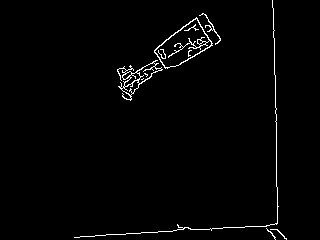
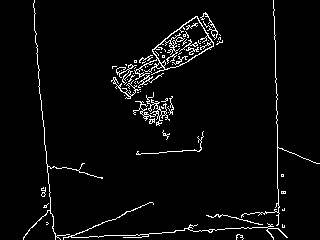
add ex_roi_get line

diff --git a/open_cv/img/ex_roi_get_line.py b/open_cv/img/ex_roi_get_line.py
@@ -1,0 +1,117 @@
+# coding: utf-8
+
+import wx
+import cv
+import cv2
+import numpy as np
+import cStringIO
+
+path = "/home/mm/code_dept/python/resource/img/"
+
+
+class OriginImgPanel(wx.Panel):
+    def __init__(self, parent, img_path):
+        self.background = wx.Image(img_path, wx.BITMAP_TYPE_ANY).ConvertToBitmap()
+        wx.Panel.__init__(self, parent=parent, size=(
+            self.background.GetWidth(), self.background.GetHeight()))
+        # self.SetBackgroundStyle(wx.BG_STYLE_CUSTOM)
+        self.Bind(wx.EVT_ERASE_BACKGROUND, self.OnEraseBackground)
+
+    def OnEraseBackground(self, evt):
+        """
+        Add a picture to the background
+        """
+        # yanked from ColourDB.py
+        dc = evt.GetDC()
+
+        if not dc:
+            dc = wx.ClientDC(self)
+            rect = self.GetUpdateRegion().GetBox()
+            # print rect
+            dc.SetClippingRect(rect)
+        dc.Clear()
+
+        dc.DrawBitmap(self.background, 0, 0)
+
+
+class EdgePanel(wx.Panel):
+    def __init__(self, parent, img_path):
+        wx.Panel.__init__(self, parent)
+        self.origin_img = cv2.imread(img_path)
+        height, width = self.origin_img.shape[:2]
+        self.SetSize((height, width))
+        self.rbg_img = cv2.cvtColor(self.origin_img, cv2.COLOR_BGR2RGB)
+        self.bmp = wx.BitmapFromBuffer(width, height, self.rbg_img)
+
+        self.edge_img = wx.StaticBitmap(self, size=(height, width))
+
+        self.edge_img.SetBitmap(self.bmp)
+        # self.Bind(wx.EVT_PAINT, self.OnPaint)
+        # self.Bind(wx.EVT_TIMER, self.NextFrame)
+
+        # self.Refresh()
+
+    def OnPaint(self, evt):
+        dc = wx.BufferedPaintDC(self)
+        print "paint", self.bmp
+        dc.DrawBitmap(self.bmp, 0, 0)
+
+    def NextFrame(self, event):
+        self.Refresh()
+
+    def detect(self, sp, sr):
+        image = cv2.pyrMeanShiftFiltering(self.origin_img, sp, sr)
+        gray_img = cv2.cvtColor(image, cv2.COLOR_BGR2GRAY)
+        detected_edges = cv2.Canny(gray_img, 20, 150, apertureSize=kernel_size)
+        dst = cv2.bitwise_and(self.origin_img, self.origin_img, mask=detected_edges)
+
+
+class CtrlPanel(wx.Panel):
+    def __init__(self, parent):
+        wx.Panel.__init__(self, parent)
+        vbox = wx.BoxSizer(wx.VERTICAL)
+
+        self.sld = wx.Slider(self, value=10, minValue=1, maxValue=100,
+                             style=wx.SL_HORIZONTAL | wx.SL_LABELS)
+
+        vbox.Add(self.sld, 1, flag=wx.EXPAND | wx.ALIGN_CENTER_HORIZONTAL | wx.TOP, border=20)
+        self.sld.Bind(wx.EVT_SLIDER, self.OnSliderScroll)
+        self.txt = wx.StaticText(self, label='Yiibai.com', style=wx.ALIGN_CENTER)
+        vbox.Add(self.txt, 1, wx.ALIGN_CENTRE_HORIZONTAL)
+
+        self.SetSizer(vbox)
+
+    def OnSliderScroll(self, e):
+        obj = e.GetEventObject()
+        val = obj.GetValue()
+        font = self.GetFont()
+        font.SetPointSize(self.sld.GetValue())
+        self.txt.SetFont(font)
+
+
+class Mywin(wx.Frame):
+
+    def __init__(self, parent, title):
+        super(Mywin, self).__init__(parent, title=title, size=(400, 300))
+        self.InitUI()
+
+    def InitUI(self):
+        v_lay = wx.BoxSizer(wx.VERTICAL)
+        img_path = path + 'ex_ocupity_lg.jpg'
+        ctrl_pnl = CtrlPanel(self)
+        img_pnl = OriginImgPanel(self, img_path)
+        edge_pnl = EdgePanel(self, img_path)
+
+        v_lay.Add(ctrl_pnl)
+        v_lay.Add(img_pnl)
+        v_lay.Add(edge_pnl)
+        self.SetSizer(v_lay)
+        self.SetSize((500, 800))
+        self.Centre()
+        self.Show(True)
+
+
+app = wx.App()
+frame = Mywin(None, "roi set")
+
+app.MainLoop()

diff --git a/open_cv/img/ex_roi.py b/open_cv/img/ex_roi.py
@@ -12,15 +12,16 @@ oc_lg2 = cv2.imread(path + 'ex_ocupity_lg2.jpg')
 
 
 kernel_size = 3
+image = cv2.pyrMeanShiftFiltering(oc_lg, 10, 10)
+# image = oc_lg
+ep_lg_gray_img = cv2.cvtColor(image, cv2.COLOR_BGR2GRAY)
 
-ep_lg_gray_img = cv2.cvtColor(oc_lg, cv2.COLOR_BGR2GRAY)
-ep_lg_gray_img = cv2.GaussianBlur(ep_lg_gray_img, (5, 5), 0)
 element = cv2.getStructuringElement(cv2.MORPH_RECT, (3, 3))
-ep_lg_erode = cv2.erode(ep_lg_gray_img, element)
+# ep_lg_erode = cv2.erode(ep_lg_gray_img, element)
 
 
 # detected_edges = cv2.GaussianBlur(ep_lg_erode, (3, 3), 0)
-detected_edges = cv2.Canny(ep_lg_erode, 30, 150, apertureSize=kernel_size)
+detected_edges = cv2.Canny(ep_lg_gray_img, 20, 150, apertureSize=kernel_size)
 
 cv2.imwrite(path + "ex_canny_edges.jpg", detected_edges)
 # dst = cv2.bitwise_and(img, img, mask=detected_edges)  # just add some colours to edges from original image.
@@ -32,23 +33,23 @@ ret, binary = cv2.threshold(dst_gray, 25, 255, cv2.THRESH_BINARY)
 contours, hierarchy = cv2.findContours(binary, 2, 1)
 
 
-for index, c in enumerate(contours):
-    if cv2.arcLength(c, True) > 600:
+# for index, c in enumerate(contours):
+#     if cv2.arcLength(c, True) > 600:
 
-        hull = cv2.convexHull(c, returnPoints=False)
-        defects = cv2.convexityDefects(c, hull)
-        for i in range(defects.shape[0]):
-            s, e, f, d = defects[i, 0]
-            start = tuple(c[s][0])
-            end = tuple(c[e][0])
-            far = tuple(c[f][0])
-            # cv2.line(dst, start, end, [0, 255, 0], 1)
-            # cv2.circle(dst, start, 5, [255, 0, 0], 2)
-            # cv2.circle(dst, far, 5, [255, 0, 0], 2)
-        cv2.drawContours(dst, contours, index, (0, 0, 255), 2)
+#         hull = cv2.convexHull(c, returnPoints=False)
+#         defects = cv2.convexityDefects(c, hull)
+#         for i in range(defects.shape[0]):
+#             s, e, f, d = defects[i, 0]
+#             start = tuple(c[s][0])
+#             end = tuple(c[e][0])
+#             far = tuple(c[f][0])
+#             # cv2.line(dst, start, end, [0, 255, 0], 1)
+#             # cv2.circle(dst, start, 5, [255, 0, 0], 2)
+#             # cv2.circle(dst, far, 5, [255, 0, 0], 2)
+#         cv2.drawContours(dst, contours, index, (0, 0, 255), 2)
 
-cv2.imwrite(path + "ex_canny_edges3.jpg", dst)
+# cv2.imwrite(path + "ex_canny_edges3.jpg", dst)
 
-ep_lg_gray_img = cv2.cvtColor(dst, cv2.COLOR_BGR2GRAY)
+# ep_lg_gray_img = cv2.cvtColor(dst, cv2.COLOR_BGR2GRAY)
 
-contours, hierarchy = cv2.findContours(binary, cv2.RETR_EXTERNAL, cv2.CHAIN_APPROX_SIMPLE)
+# contours, hierarchy = cv2.findContours(binary, cv2.RETR_EXTERNAL, cv2.CHAIN_APPROX_SIMPLE)

diff --git a/open_cv/img/test.py b/open_cv/img/test.py
@@ -1,0 +1,40 @@
+import wx
+
+
+class MyPanel(wx.Panel):
+    def __init__(self, parent):
+        wx.Panel.__init__(self, parent, -1)
+        self.Bind(wx.EVT_PAINT, self.OnPaint)
+        self.Bind(wx.EVT_LEFT_DCLICK, self.on_left_double_click)
+
+        self.show_yellow_box = False
+        self.box_pos = None
+
+    def OnPaint(self, evt):
+        dc = wx.PaintDC(self)
+        dc.DrawRectangle(50, 60, 90, 40)
+        if self.show_yellow_box:
+            x, y = self.box_pos
+            dc.SetBrush(wx.Brush("yellow"))
+            dc.DrawRectangle(x, y, 90, 40)
+
+    def on_left_double_click(self, evt):
+        x = evt.GetX()
+        y = evt.GetY()
+        self.box_pos = (x, y)
+        self.show_yellow_box = True
+        self.Refresh()  # important, to trigger EVT_PAINT on panel
+
+
+class MyForm(wx.Frame):
+
+    def __init__(self):
+        wx.Frame.__init__(self, None, wx.ID_ANY, "Test", style=wx.DEFAULT_FRAME_STYLE, size=wx.Size(400, 300))
+        self.main_panel = MyPanel(self)
+
+
+if __name__ == "__main__":
+    app = wx.App(False)
+    frame = MyForm()
+    frame.Show()
+    app.MainLoop()

diff --git a/open_cv/img/exchange检测思路.md b/open_cv/img/exchange检测思路.md
@@ -7,7 +7,10 @@
 ##自动设置ROI
  ROI的设置只要一次，为了不手动设置。可以采用opencv自动设置，可以显示到屏幕上，由人眼进行判断是否正确。主要是为了将exchange 皮带的边缘给过滤了。
 ###现在:
-    在exchange为空的情况下， 开灯，拍照。然后找出最长的一条直线，画一个长方形。这个长方形内就是roi区域。接下来商品的取未取以这个区域做判断.
+    exchange 开灯，拍照(不一样要exchange 为空)。然后找出最长的一条直线，画一个长方形。可能这个长方形不平行于摄像头，需要进行反射变化。
+    这个长方形内就是roi区域。接下来商品的取未取以这个区域做判断.
+    
+    [参考](http://www.cnblogs.com/frombeijingwithlove/p/4226489.html)
 ###将来:
     exchang的面板颜色和皮带设置不一样。这样可以更容易检测。
 ##检测皮带划痕
